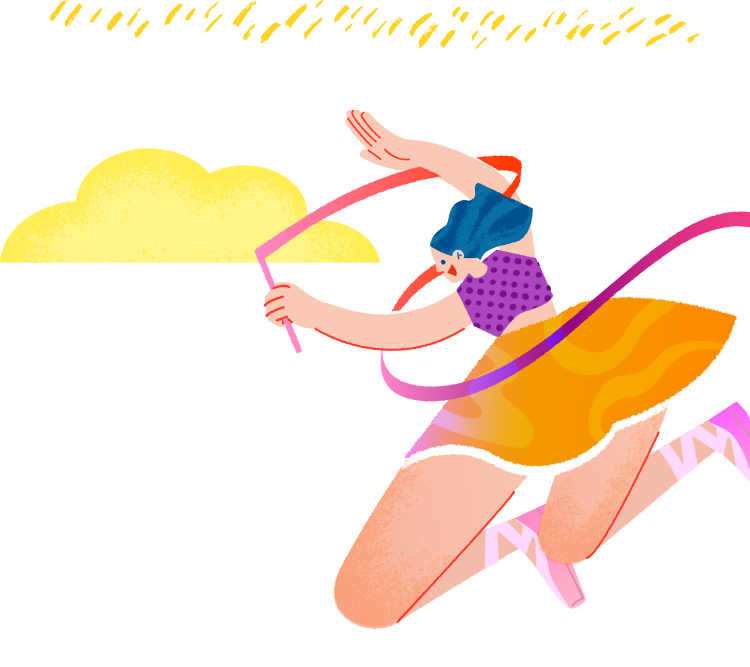
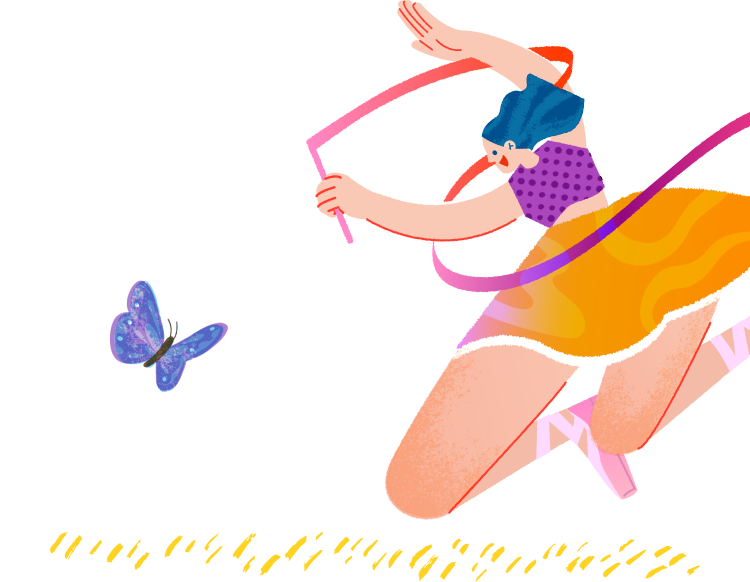
asdasd

diff --git a/src/components/Product.vue b/src/components/Product.vue
@@ -11,23 +11,18 @@
         <div class="font-bold text-red text-2xl">|<span class="mx-4">保險商品</span>|</div>
         <div class="px-24 text-center leading-[2.5em] text-lg mt-8 md:px-0 md:leading-loose">逐夢的路上，<br class="hidden md:block" />您可以為自己準備更多穩健方案， <br />選擇適合的保單內容，<br class="hidden md:block" />讓逐夢的路上能走得更踏實</div>
       </div>
-
-      <Cards class="ani-f-b"></Cards>
-      <div class="pb-12 pt-32 flex justify-center relative w-full md:pb-12 ani-f-b md:hidden">
-        <!-- <a href="#" target="_blank" class="block duration-300 hover:scale-90">
-          <img src="@/assets/imgs/btn.png" class="w-[250px]" />
-        </a> -->
-        <img src="@/assets/imgs/butterfly.png" class="absolute top-2 left-8 md:hidden ani-f-b" />
-      </div>
     </div>
-
-    <div class="w-full mt-12">
+    <div class="container">
+      <Cards class="ani-f-b"></Cards>
+    </div>
+    <div class="w-full bg-full -mt-[150px] pt-[160px]" :style="{ backgroundImage: `url(${getUrl('bg4.png')})` }">
       <img src="@/assets/imgs/dancin_m.png" class="hidden md:block ani-f-b" />
       <div class="container relative md:hidden">
-        <img src="@/assets/imgs/line2.png" class="" />
-        <img src="@/assets/imgs/dancin.png" class="absolute left-1/2 ml-[200px] top-0 mt-[-250px] ani-f-r" />
+        <img src="@/assets/imgs/butterfly.png" class="md:hidden ani-f-b" />
+        <img src="@/assets/imgs/line2.png" class="ml-12 mt-12" />
+        <img src="@/assets/imgs/dancin.png" class="absolute left-1/2 ml-[230px] top-0 ani-f-r w-[400px]" />
       </div>
-      <div class="bg-full mt-10" :style="{ backgroundImage: `url(${getUrl('bg4.png')})` }">
+      <div class="bg-full mt-0">
         <div class="container py-20 text-center">
           <div class="font-bold text-red text-2xl">|<span class="mx-4">活動專線</span>|</div>
           <div class="px-24 leading-[2.5em] text-lg mt-8 md:px-8">
@@ -52,7 +47,7 @@ import Cards from './Cards.vue';
 import useGsap from '@/utils/useGsap';
 const { initAnimation, staggerFromScale } = useGsap();
 const target = ref(null);
-const isMobile = useMediaQuery('(max-width: 700px)');
+const isMobile = useMediaQuery('(max-width: 768px)');
 const parallax = reactive(useParallax(target));
 
 const layerBase = {

diff --git a/src/components/Cards.vue b/src/components/Cards.vue
@@ -70,7 +70,7 @@
         </div>
       </a>
     </div>
-    <div class="text-xs px-8 my-4">以上費用以30歲女性最低保額為例，實際保障內容依保單條款為主，有任何保單相關問題，請洽新光人壽業務員</div>
+    <div class="text-xs px-8 mt-4">以上費用以30歲女性最低保額為例，實際保障內容依保單條款為主，有任何保單相關問題，請洽新光人壽業務員</div>
   </div>
 </template>
 

diff --git a/src/components/header/Header.vue b/src/components/header/Header.vue
@@ -36,7 +36,7 @@ import { computed, reactive, ref } from 'vue';
 import { useMediaQuery, useParallax } from '@vueuse/core';
 
 const target = ref(null);
-const isMobile = useMediaQuery('(max-width: 700px)');
+const isMobile = useMediaQuery('(max-width: 768px)');
 const parallax = reactive(useParallax(target));
 
 const layerBase = {

diff --git a/src/components/Rule.vue b/src/components/Rule.vue
@@ -101,7 +101,7 @@ import useGsap from '@/utils/useGsap';
 const { initAnimation, staggerFromScale } = useGsap();
 
 const target = ref(null);
-const isMobile = useMediaQuery('(max-width: 700px)');
+const isMobile = useMediaQuery('(max-width: 768px)');
 const parallax = reactive(useParallax(target));
 
 const layerBase = {

diff --git a/src/components/Video.vue b/src/components/Video.vue
@@ -35,7 +35,7 @@ import useGsap from '@/utils/useGsap';
 const { initAnimation, staggerFromScale } = useGsap();
 
 const target = ref(null);
-const isMobile = useMediaQuery('(max-width: 700px)');
+const isMobile = useMediaQuery('(max-width: 768px)');
 const parallax = reactive(useParallax(target));
 
 const layerBase = {
